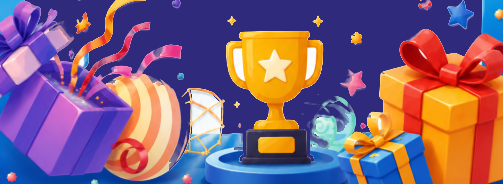
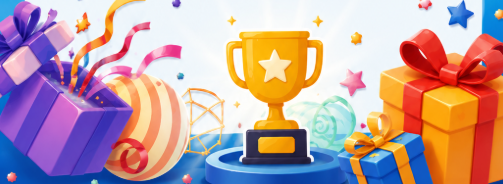
Light-blue/white page background (original artwork), dark ink for text outside cards

diff --git a/index.html b/index.html
@@ -9,7 +9,7 @@
 <link href="https://fonts.googleapis.com/css2?family=Kanit:wght@600;700;800&family=Noto+Sans+Thai:wght@400;500;600;700&family=JetBrains+Mono:wght@600;700&display=swap" rel="stylesheet">
 <style>
   :root{
-    --bg:#201C5A; --surface:#3B3690; --surface-2:#4A44A8; --surface-3:#5F59C0;
+    --bg:#E6F0FB; --page-text:#241F6E; --page-dim:#46428F; --surface:#3B3690; --surface-2:#4A44A8; --surface-3:#5F59C0;
     --text:#FFFFFF; --text-dim:#D6D1F8; --text-faint:#ADA7E2;
     --accent:#8E6DFF; --accent-2:#FF6FB1; --ok:#2FD08F; --bad:#EE5248;
     --red:#E4433C; --blue:#2C82E0; --yellow:#F2B705; --green:#26C281;
@@ -20,11 +20,11 @@
   *{box-sizing:border-box;}
   html,body{height:100%;margin:0;}
   body{
-    background:var(--bg); color:var(--text);
+    background:var(--bg); color:var(--page-text);
     font-family:'Noto Sans Thai','Noto Sans',system-ui,sans-serif;
     background-image:
-      radial-gradient(circle at 15% 8%, rgba(170,140,255,.38), transparent 48%),
-      radial-gradient(circle at 90% 85%, rgba(255,111,177,.24), transparent 42%);
+      radial-gradient(circle at 15% 8%, rgba(150,120,255,.22), transparent 48%),
+      radial-gradient(circle at 90% 85%, rgba(255,111,177,.16), transparent 42%);
     background-attachment:fixed;
   }
   h1,h2,h3,.display{ font-family:'Kanit',system-ui,sans-serif; letter-spacing:.2px; }
@@ -35,7 +35,7 @@
   /* party frame: top and bottom slices keep their proportions, the plain middle stretches to any screen height */
   #bg-frame{
     position:fixed;top:0;bottom:0;left:50%;transform:translateX(-50%);
-    width:var(--fw);pointer-events:none;z-index:0;opacity:.5;
+    width:var(--fw);pointer-events:none;z-index:0;
     background-image:url('bg-party-top.png'),url('bg-party-bottom.png'),url('bg-party-mid.png');
     background-repeat:no-repeat,no-repeat,no-repeat;
     background-position:center top,center bottom,center;
@@ -47,10 +47,11 @@
     padding: calc(env(safe-area-inset-top, 0px) + var(--fw)*0.15) clamp(30px, calc(var(--fw)*0.105), 76px) calc(env(safe-area-inset-bottom, 0px) + var(--fw)*0.38);
     gap:16px;
   }
-  .topbar,.hero-sub,.footer-note{text-shadow:0 1px 4px rgba(20,10,80,.85);}
-  .hero-title{filter:drop-shadow(0 2px 4px rgba(20,10,80,.8));}
+  /* text sitting directly on the light page uses dark ink; anything inside a card/button keeps white text */
+  .card,.choice-card,.q-card,.btn-primary,.btn-secondary{color:var(--text);}
+  .main > p.muted,.main > .muted{color:var(--page-dim);}
   .topbar{display:flex;align-items:center;justify-content:space-between;gap:12px;}
-  .brand{display:flex;align-items:center;gap:8px;font-family:'Kanit';font-weight:700;font-size:clamp(15px,4.4vw,18px);color:var(--text);white-space:nowrap;}
+  .brand{display:flex;align-items:center;gap:8px;font-family:'Kanit';font-weight:700;font-size:clamp(15px,4.4vw,18px);color:var(--page-text);white-space:nowrap;}
   .brand .dot{width:10px;height:10px;border-radius:50%;background:var(--accent-2);box-shadow:0 0 12px var(--accent-2);}
   .room-chip{
     font-family:'JetBrains Mono';font-weight:700;letter-spacing:2px;
@@ -67,7 +68,7 @@
   .center-col{flex:1;display:flex;flex-direction:column;justify-content:center;gap:22px;}
   .card{background:var(--surface);border:1px solid var(--surface-3);border-radius:var(--radius-lg);padding:22px;box-shadow:var(--shadow);}
   .hero-title{font-size:clamp(30px,8vw,42px);font-weight:800;line-height:1.1;text-wrap:balance;}
-  .hero-sub{color:var(--text-dim);font-size:15px;line-height:1.6;max-width:46ch;}
+  .hero-sub{color:var(--page-dim);font-size:15px;line-height:1.6;max-width:46ch;}
   .accent-text{background:linear-gradient(90deg,var(--accent),var(--accent-2));-webkit-background-clip:text;background-clip:text;color:transparent;}
   .btn{
     appearance:none;border:none;cursor:pointer;border-radius:var(--radius-md);
@@ -80,7 +81,7 @@
   .btn-primary:hover{filter:brightness(1.08);}
   .btn-secondary{background:var(--surface-2);color:var(--text);border:1px solid var(--surface-3);}
   .btn-secondary:hover{border-color:var(--accent);}
-  .btn-ghost{background:transparent;color:var(--text-dim);border:1px solid var(--surface-3);}
+  .btn-ghost{background:rgba(255,255,255,.55);color:var(--page-text);border:1px solid rgba(36,31,110,.35);}
   .btn:disabled{opacity:.45;cursor:not-allowed;transform:none;}
   .btn-block{width:100%;}
   .btn-lg{padding:20px 22px;font-size:18px;}
@@ -236,7 +237,7 @@
   .podium-score{font-family:'JetBrains Mono';font-size:12px;color:var(--text-dim);}
   .warn-banner{background:rgba(242,183,5,.15);border:1px solid rgba(242,183,5,.4);color:#F2B705;padding:12px 14px;border-radius:var(--radius-sm);font-size:13px;margin-bottom:14px;}
   .err-banner{background:rgba(228,67,60,.15);border:1px solid rgba(228,67,60,.4);color:#ff8b85;padding:12px 14px;border-radius:var(--radius-sm);font-size:13px;margin-bottom:14px;}
-  .footer-note{text-align:center;color:var(--text-faint);font-size:12px;margin-top:auto;padding-top:10px;}
+  .footer-note{text-align:center;color:var(--page-dim);font-size:12px;margin-top:auto;padding-top:10px;}
   a{color:var(--accent-2);}
 </style>
 </head>
